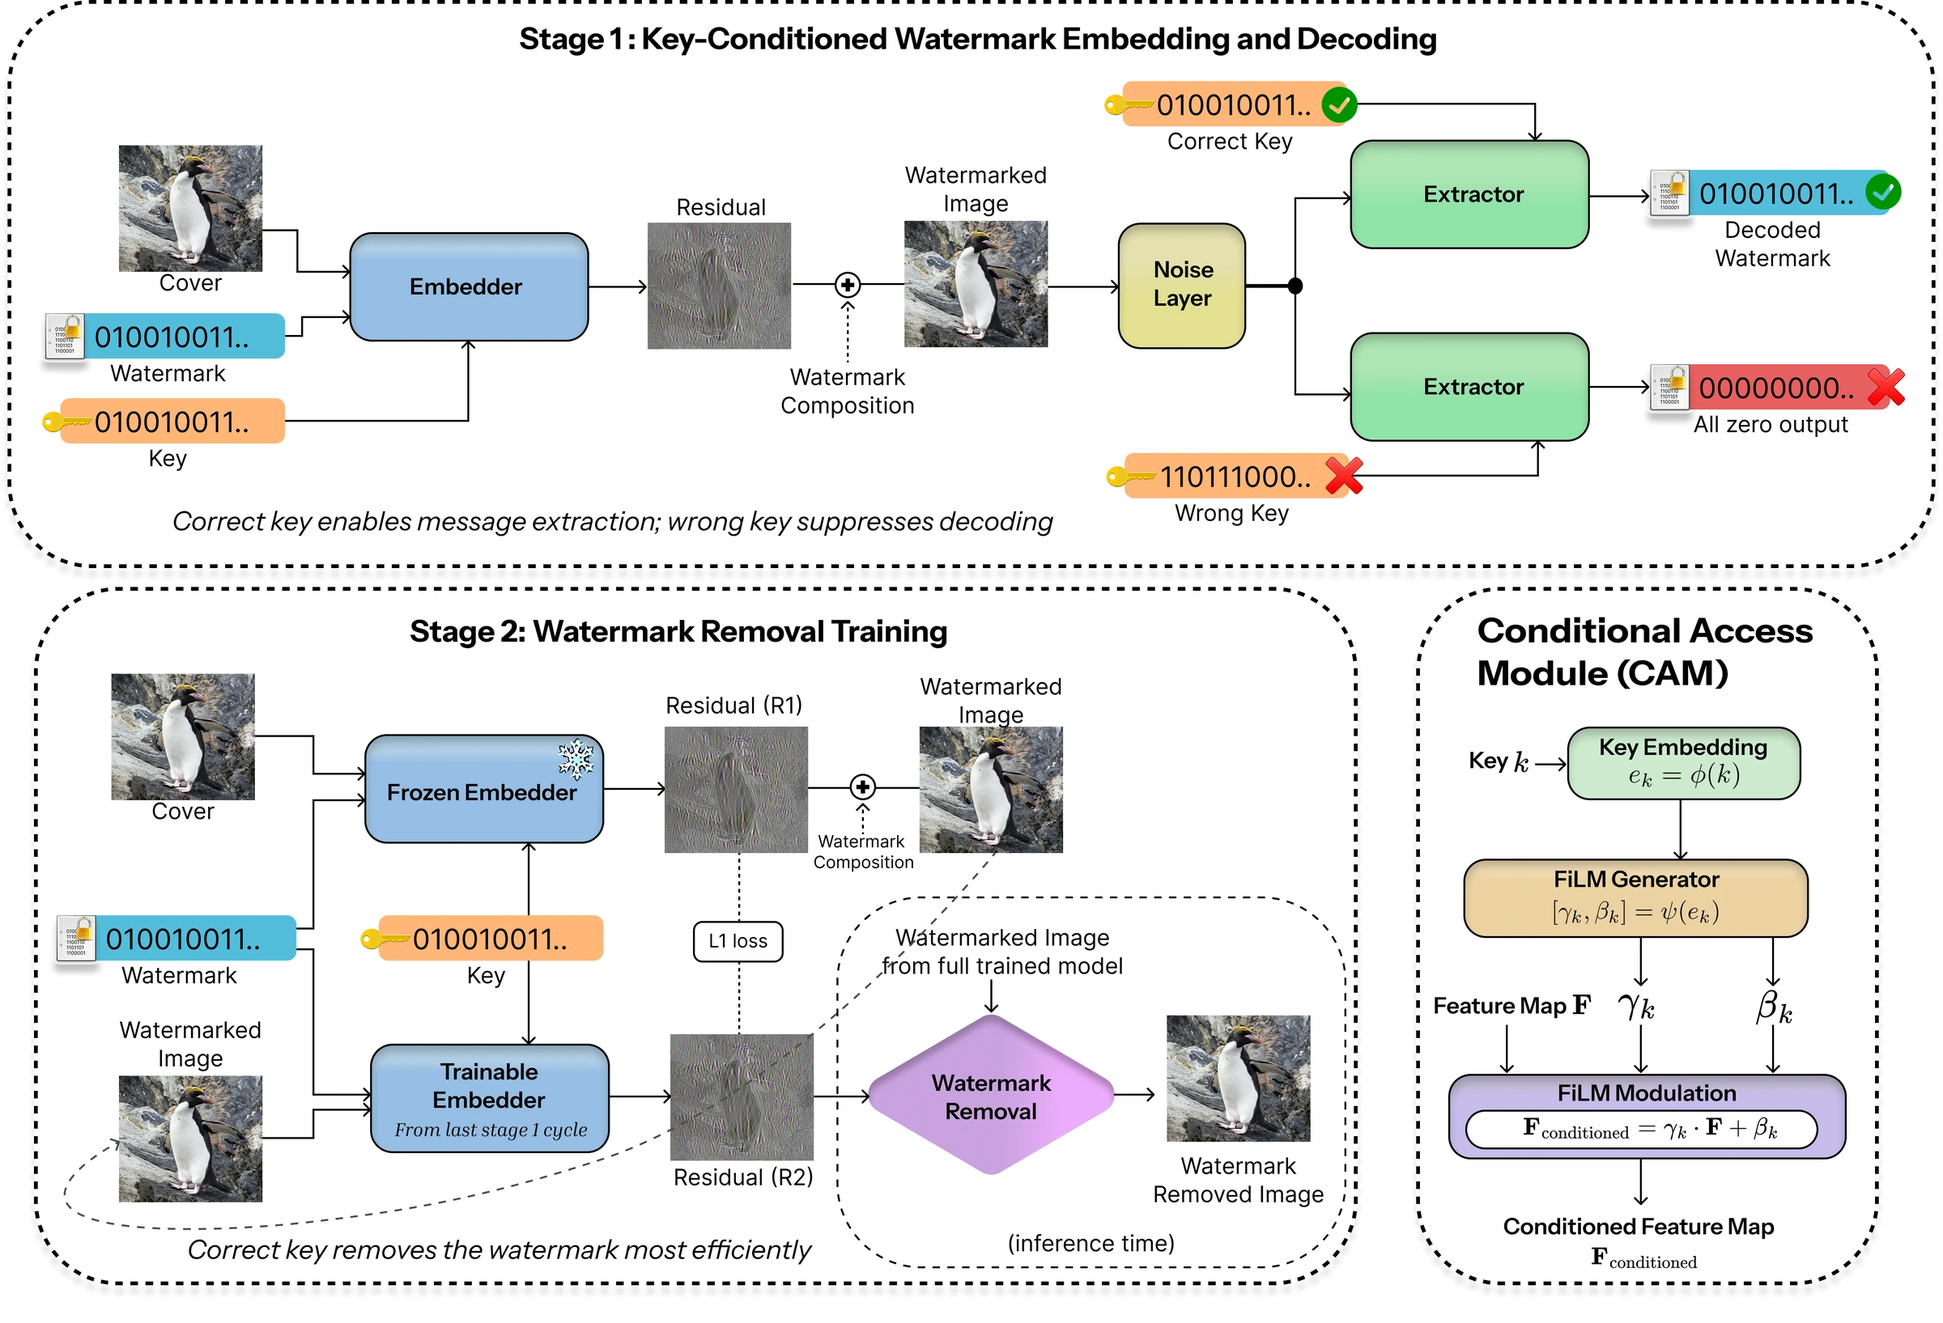
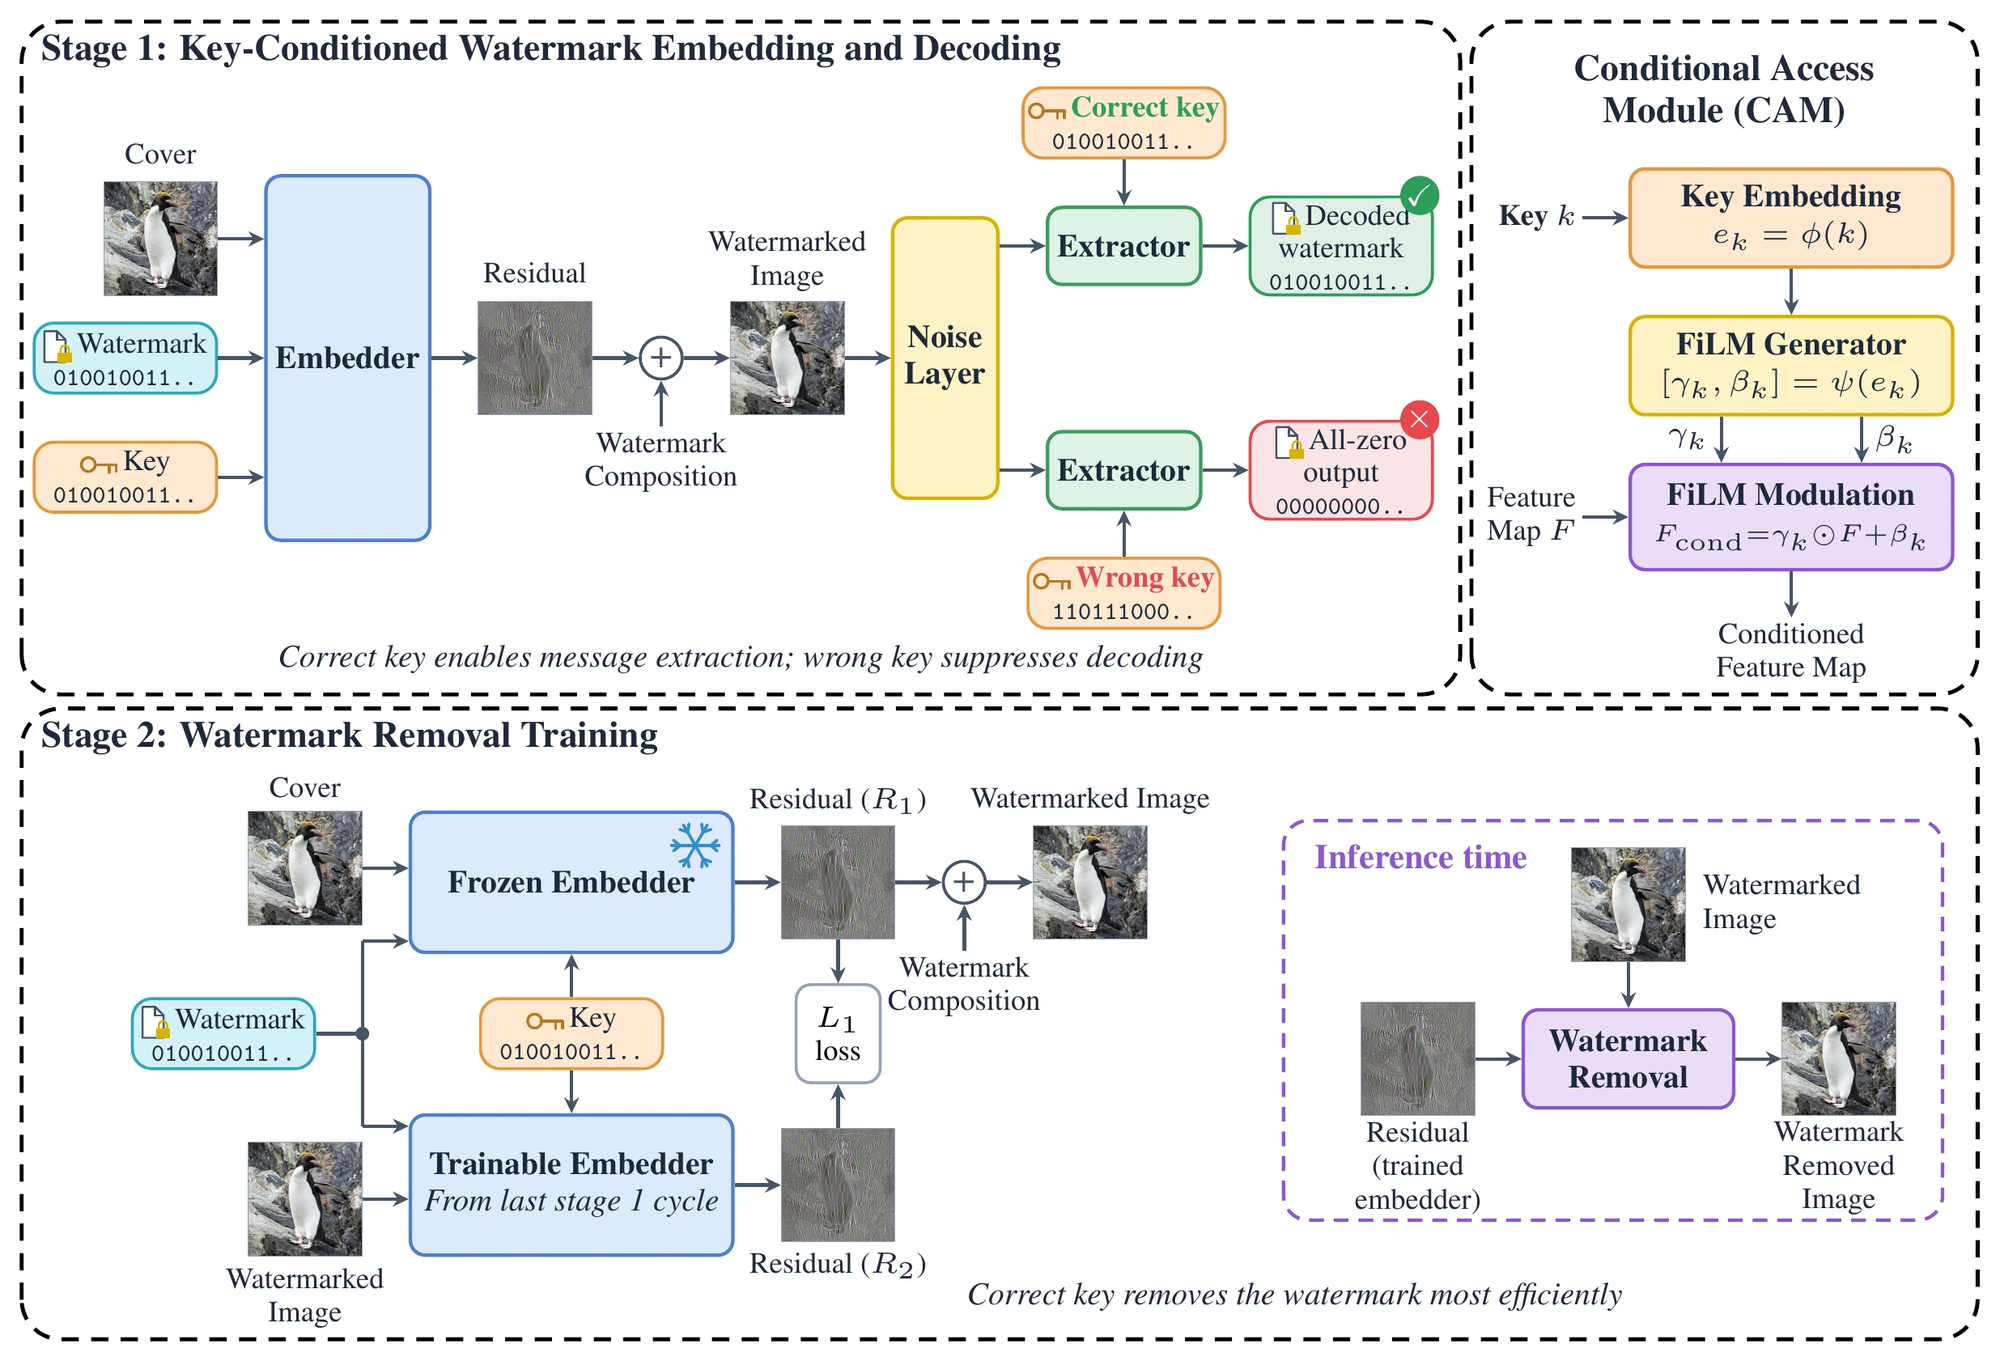
Add new method figure and minor changes

diff --git a/index.html b/index.html
@@ -36,8 +36,8 @@
 
             <div class="authors">
                 <span>Yash Kulthe<sup>1,2</sup></span>
-                <span>Vishal Asnani<sup>2</sup></span>
                 <span>Shruti Agarwal<sup>2</sup></span>
+                <span>Vishal Asnani<sup>2</sup></span>
                 <span>Andrew Gilbert<sup>1</sup></span>
                 <span>John Collomosse<sup>1,2</sup></span>
             </div>
@@ -204,8 +204,8 @@
                 <p class="lede">FiLM-CAM injects the key into the internal features of the embedder and extractor through a Conditional Access Module (CAM). Training proceeds in two stages: key-conditioned embedding and decoding, then key-conditioned removal.</p>
 
                 <figure class="figure reveal">
-                    <div class="card"><img src="images/method.webp" width="2400" height="1635" alt="Architecture of FiLM-CAM: Stage 1 key-conditioned embedding and decoding, Stage 2 watermark removal training, and the Conditional Access Module." loading="lazy" data-zoom></div>
-                    <figcaption><b>Architecture.</b> <b>Stage 1:</b> the embedder predicts a residual that is composed with the cover image. The extractor recovers the watermark only with the correct key and outputs an all-zero message otherwise. <b>Stage 2:</b> a trainable copy of the embedder learns to output the same residual when given the <em>watermarked</em> image, so it can be subtracted to remove the watermark. <b>CAM:</b> the key <span class="mono">k</span> is embedded as <span class="mono">e<sub>k</sub> = φ(k)</span>, projected to <span class="mono">(γ<sub>k</sub>, β<sub>k</sub>)</span>, and used to modulate intermediate feature maps.</figcaption>
+                    <div class="card"><img src="images/method.webp" width="2471" height="1682" alt="Architecture of FiLM-CAM: Stage 1 key-conditioned embedding and decoding, Stage 2 watermark removal training, and the Conditional Access Module." loading="lazy" data-zoom></div>
+                    <figcaption><b>Architecture of FiLM-CAM.</b> <b>Stage 1:</b> The Embedder generates watermark residuals, which are added to the cover image, to get a watermarked image. The Extractor recovers the watermark from the image if it receives the correct key and an all-zero bit message in case of an incorrect key. <b>Stage 2:</b> The Embedder network is trained to output residuals when given a watermarked image, such that it can be used to remove the watermark. <b>Conditional Access Module (CAM):</b> A binary key \(k\) is mapped to an embedding \(e_k=\phi(k)\) and transformed via \(\psi\) to produce feature-wise parameters \((\gamma_k,\beta_k)\). These condition the intermediate feature maps via FiLM modulation \(F_{\text{cond}}=\gamma_k \odot F + \beta_k\), enabling key-dependent watermark embedding, decoding, and removal.</figcaption>
                 </figure>
 
                 <div class="steps">

diff --git a/figures/method/figure1_tikz.tex b/figures/method/figure1_tikz.tex
@@ -1,0 +1,211 @@
+% ---------------------------------------------------------------
+% FiLM-CAM Figure 1 (TikZ), grid layout.
+% * Drawn at TRUE SIZE for a 5.5in NeurIPS text width (13.95cm wide): do NOT rescale.
+%   Printed font sizes: 7.5pt titles, 6.5pt modules, 6pt labels, 5.2pt bit strings.
+% * EVERY arrow uses the single style `arr` (same head, same 0.7pt line) and EVERY
+%   arrow is exactly \gn cm long (one parameter, default 0.36): blocks are placed with one fixed gap.
+%   To change ALL arrow lengths at once edit \gn below (needs ~0.33 to fit 13.95cm).
+% Preamble needs: \usepackage{tikz,graphicx,amsmath,amssymb,xcolor}
+%                 \usetikzlibrary{arrows.meta,calc,fit}
+% Images in images/fig1/: penguin.png (cover / watermarked / removed) and residual.png (residuals)
+% \blanktrue gives empty frames so you can add images later.
+% ---------------------------------------------------------------
+\newif\ifblank \blankfalse
+\newcommand{\figdir}{images/fig1}
+
+\definecolor{cBlue}{HTML}{DCE9FB}   \definecolor{cBlueD}{HTML}{4A7FD1}
+\definecolor{cGreen}{HTML}{DDF3E4}  \definecolor{cGreenD}{HTML}{3E9B5F}
+\definecolor{cOrange}{HTML}{FFE8D0} \definecolor{cOrangeD}{HTML}{E8963A}
+\definecolor{cTeal}{HTML}{D3F1F7}   \definecolor{cTealD}{HTML}{2FA6BF}
+\definecolor{cYellow}{HTML}{FFF3C4} \definecolor{cYellowD}{HTML}{D9B100}
+\definecolor{cPurple}{HTML}{EBDDFB} \definecolor{cPurpleD}{HTML}{8C55D6}
+\definecolor{cPanel}{HTML}{F8FAFC}  \definecolor{cPanelD}{HTML}{94A3B8}
+\definecolor{cRed}{HTML}{E5484D}    \definecolor{cOK}{HTML}{2E9E5B}
+\definecolor{cText}{HTML}{1E293B}   \definecolor{cArrow}{HTML}{475569}
+
+
+% ---- small hand-drawn icons (inline, ~0.2cm) ----
+\definecolor{cKey}{HTML}{B7791F}
+\newcommand{\keyic}{\tikz[baseline=-0.45ex, rounded corners=0pt]{\draw[line width=0.55pt,draw=cKey] (0,0) circle (0.05);
+  \draw[line width=0.55pt,draw=cKey,line cap=round] (0.05,0)--(0.2,0) (0.15,0)--(0.15,-0.055) (0.2,0)--(0.2,-0.05);}}
+\newcommand{\wmic}{\tikz[baseline=-0.5ex, rounded corners=0pt]{%
+  \path[draw=cArrow, fill=white, line width=0.4pt, line join=round] (0,-0.11)--(0,0.11)--(0.09,0.11)--(0.15,0.05)--(0.15,-0.11)--cycle;
+  \draw[line width=0.4pt, draw=cArrow] (0.09,0.11)--(0.09,0.05)--(0.15,0.05);
+  \draw[line width=0.4pt, draw=cYellowD] (0.115,-0.045)--(0.115,-0.02) arc (180:0:0.03) -- (0.175,-0.045);
+  \path[fill=cYellowD] (0.095,-0.115) rectangle (0.195,-0.045);}}
+
+% snowflake icon (frozen weights), drawn at point #1
+\definecolor{cSnow}{HTML}{2F8FD0}
+\newcommand{\snowic}[1]{\begin{scope}[shift={#1}, rounded corners=0pt, line width=0.6pt, draw=cSnow, line cap=round]
+  \foreach \a in {0,60,120}{\draw (\a:0.17)--(\a+180:0.17);}
+  \foreach \a in {0,60,...,300}{\draw (\a:0.11)--++(\a+40:0.06); \draw (\a:0.11)--++(\a-40:0.06);}
+\end{scope}}
+
+\newcommand{\figtitle}[1]{{\bfseries #1}}
+\newcommand{\figmod}[1]{{\bfseries #1}}
+\newcommand{\figlab}[1]{#1}
+\newcommand{\figbits}[1]{{\fontsize{5.2}{6}\selectfont\ttfamily\bfseries #1}}
+\newcommand{\figcap}[1]{{\itshape #1}}
+
+% \tile{name}{anchor}{position}{file}{size}
+\newcommand{\tile}[5]{%
+  \node[anchor=#2, inner sep=0pt, draw=cPanelD, line width=0.5pt] (#1) at #3 {%
+    \ifblank\rule{0pt}{#5}\rule{#5}{0pt}\else\includegraphics[width=#5,height=#5]{\figdir/#4}\fi};}
+% \pillt{name}{style}{anchor}{position}{label}{bits}
+\newcommand{\pillt}[6]{\node[pill, #2, anchor=#3] (#1) at #4 {\figlab{#5}\\\figbits{#6}};}
+
+\newcommand{\ts}{0.8cm}% image tile size (all images)
+\pgfmathsetmacro{\gn}{0.33}% <- the ONE arrow length / block gap (cm)
+\begin{tikzpicture}[
+  x=1cm, y=1cm, >={Stealth[length=3.2pt,width=3pt]}, font=\fontsize{6}{6.8}\selectfont,
+  % ---- the ONE arrow style (all arrows are \gn cm long) ----
+  arr/.style={->, line width=0.7pt, draw=cArrow},
+  panel/.style={draw=black, fill=white, line width=0.8pt, dash pattern=on 3.5pt off 2.5pt, rounded corners=8pt},
+  mod/.style={draw, line width=0.7pt, rounded corners=3pt, align=center, inner sep=2pt, text=cText, font=\fontsize{6.5}{7.4}\selectfont},
+  blue/.style={mod, fill=cBlue, draw=cBlueD}, green/.style={mod, fill=cGreen, draw=cGreenD},
+  orange/.style={mod, fill=cOrange, draw=cOrangeD}, yellow/.style={mod, fill=cYellow, draw=cYellowD},
+  purple/.style={mod, fill=cPurple, draw=cPurpleD},
+  pill/.style={draw, line width=0.6pt, rounded corners=4pt, minimum width=1.3cm, minimum height=0.5cm, inner sep=1pt, align=center, text=cText, font=\fontsize{6}{6.6}\selectfont},
+  tealp/.style={fill=cTeal, draw=cTealD}, orgp/.style={fill=cOrange, draw=cOrangeD},
+  grnp/.style={fill=cOK!15!white, draw=cOK}, redp/.style={fill=cRed!15!white, draw=cRed},
+  plus/.style={circle, draw=cArrow, fill=white, line width=0.6pt, inner sep=0pt, minimum size=0.3cm, font=\fontsize{8}{8}\selectfont, text=cArrow},
+  lab/.style={align=center, text=cText, inner sep=1pt, font=\fontsize{6}{6.8}\selectfont},
+  ttl/.style={align=center, text=cText, inner sep=1pt, font=\fontsize{7.5}{8.5}\selectfont},
+  capst/.style={align=center, text=cText, inner sep=1pt, font=\fontsize{6.5}{7.5}\selectfont},
+  badge/.style={circle, text=white, inner sep=0pt, minimum size=0.28cm, font=\fontsize{6}{6}\selectfont},
+  ]
+
+%=========================== STAGE 1 ===========================
+\path[panel] (0,4.6) rectangle (10.26,9.4);
+\node[ttl, anchor=north west] at (0.1,9.35) {\figtitle{Stage 1: Key-Conditioned Watermark Embedding and Decoding}};
+
+% input column (right edges aligned at x=1.4); main row at y=7.0
+\tile{cov1}{east}{(1.4,7.85)}{penguin.png}{\ts}
+\node[lab] at ($(cov1.north)+(0,0.2)$) {\figlab{Cover}};
+\pillt{wm1}{tealp}{east}{(1.4,7.0)}{\wmic\,Watermark}{010010011..}
+\pillt{key1}{orgp}{east}{(1.4,6.15)}{\keyic\,Key}{010010011..}
+
+\node[blue, anchor=west, minimum width=1.15cm, minimum height=2.6cm] (emb) at ($(1.4,7.0)+(\gn,0)$) {\figmod{Embedder}};
+\draw[arr] (cov1.east)--(emb.west |- cov1.east);
+\draw[arr] (wm1.east)--(emb.west |- wm1.east);
+\draw[arr] (key1.east)--(emb.west |- key1.east);
+
+\tile{res1}{west}{($(emb.east)+(\gn,0)$)}{residual.png}{\ts}
+\node[lab] at ($(res1.north)+(0,0.2)$) {\figlab{Residual}};
+\draw[arr] (emb.east)--(res1.west);
+\node[plus, anchor=west] (pl1) at ($(res1.east)+(\gn,0)$) {+};
+\draw[arr] (res1.east)--(pl1.west);
+% label with an arrow up to the + (same arrow style)
+\node[lab, anchor=north] (cl1) at ($(pl1.south)+(0,-\gn)$) {\figlab{Watermark}\\\figlab{Composition}};
+\draw[arr] (cl1.north)--(pl1.south);
+\tile{wmd1}{west}{($(pl1.east)+(\gn,0)$)}{penguin.png}{\ts}
+\node[lab] at ($(wmd1.north)+(0,0.28)$) {\figlab{Watermarked}\\\figlab{Image}};
+\draw[arr] (pl1.east)--(wmd1.west);
+
+\node[yellow, anchor=west, minimum width=0.75cm, minimum height=2.0cm] (noise) at ($(wmd1.east)+(\gn,0)$) {\figmod{Noise}\\\figmod{Layer}};
+\draw[arr] (wmd1.east)--(noise.west);
+
+\node[green, anchor=west, minimum width=1.05cm, minimum height=0.55cm] (ex1) at ($(noise.east)+(\gn,0.8)$) {\figmod{Extractor}};
+\node[green, anchor=west, minimum width=1.05cm, minimum height=0.55cm] (ex2) at ($(noise.east)+(\gn,-0.8)$) {\figmod{Extractor}};
+\draw[arr] (noise.east |- ex1.west)--(ex1.west);
+\draw[arr] (noise.east |- ex2.west)--(ex2.west);
+
+\pillt{ck}{orgp}{south}{($(ex1.north)+(0,\gn)$)}{\keyic\,\textcolor{cOK}{\bfseries Correct key}}{010010011..}
+\draw[arr] (ck.south)--(ex1.north);
+\pillt{wk}{orgp}{north}{($(ex2.south)+(0,-\gn)$)}{\keyic\,\textcolor{cRed}{\bfseries Wrong key}}{110111000..}
+\draw[arr] (wk.north)--(ex2.south);
+
+\pillt{out1}{grnp}{west}{($(ex1.east)+(\gn,0)$)}{\wmic\,Decoded\\watermark}{010010011..}
+\draw[arr] (ex1.east)--(out1.west);
+\node[badge, fill=cOK] at ($(out1.north east)+(-0.1,0)$) {$\checkmark$};
+\pillt{out2}{redp}{west}{($(ex2.east)+(\gn,0)$)}{\wmic\,All-zero\\output}{00000000..}
+\draw[arr] (ex2.east)--(out2.west);
+\node[badge, fill=cRed] at ($(out2.north east)+(-0.1,0)$) {$\times$};
+
+\node[capst] at (5.13,4.85) {\figcap{Correct key enables message extraction; wrong key suppresses decoding}};
+
+%=========================== CAM ===========================
+\path[panel] (10.34,4.6) rectangle (13.95,9.4);
+\node[ttl] at (12.145,8.9) {\figtitle{Conditional Access}\\\figtitle{Module (CAM)}};
+
+\node[orange, anchor=west, minimum width=2.3cm, minimum height=0.7cm] (ke) at (11.46,8.0) {\figmod{Key Embedding}\\\figlab{$e_k=\phi(k)$}};
+\node[lab, anchor=east] (kk) at ($(ke.west)+(-\gn,0)$) {\figmod{Key $k$}};
+\draw[arr] (kk.east)--(ke.west);
+\node[yellow, anchor=north, minimum width=2.3cm, minimum height=0.7cm] (fg) at ($(ke.south)+(0,-\gn)$) {\figmod{FiLM Generator}\\\figlab{$[\gamma_k,\beta_k]=\psi(e_k)$}};
+\draw[arr] (ke.south)--(fg.north);
+\node[purple, anchor=north, minimum width=2.3cm, minimum height=0.75cm] (fm) at ($(fg.south)+(0,-\gn)$) {\figmod{FiLM Modulation}\\{\fontsize{5.3}{6.2}\selectfont $F_{\mathrm{cond}}{=}\gamma_k{\odot}F{+}\beta_k$}};
+\draw[arr] ($(fg.south)+(-0.5,0)$)--($(fm.north)+(-0.5,0)$);
+\draw[arr] ($(fg.south)+(0.5,0)$)--($(fm.north)+(0.5,0)$);
+\node[lab, anchor=east] at ($(fg.south)+(-0.55,-0.5*\gn)$) {\figmod{$\gamma_k$}};
+\node[lab, anchor=west] at ($(fg.south)+(0.55,-0.5*\gn)$) {\figmod{$\beta_k$}};
+\node[lab, anchor=east] (fmap) at ($(fm.west)+(-\gn,0)$) {\figlab{Feature}\\\figlab{Map $F$}};
+\draw[arr] (fmap.east)--(fm.west);
+\node[lab, anchor=north] (co) at ($(fm.south)+(0,-\gn)$) {\figlab{Conditioned}\\\figlab{Feature Map}};
+\draw[arr] (fm.south)--(co.north);
+
+%=========================== STAGE 2 ===========================
+\path[panel] (0,0) rectangle (13.95,4.5);
+\node[ttl, anchor=north west] at (0.1,4.45) {\figtitle{Stage 2: Watermark Removal Training}};
+
+\begin{scope}[shift={(0.6,0)}]% main Stage 2 diagram nudged right
+% top row y=3.26 (T), bottom row y=1.1 (B): T-B = emb height + 2*gn + pill height
+\pgfmathsetmacro{\busx}{1.5+\gn}
+\tile{cov2}{east}{(\busx,3.36)}{penguin.png}{\ts}
+\node[lab] at ($(cov2.north)+(0,0.17)$) {\figlab{Cover}};
+\node[blue, anchor=west, minimum width=2.3cm, minimum height=1.0cm] (fe) at ($(\busx,3.26)+(\gn,0)$) {\figmod{Frozen Embedder}};
+\snowic{($(fe.north east)+(-0.28,-0.25)$)}
+\draw[arr] (cov2.east)--(fe.west |- cov2.east);
+\tile{r1}{west}{($(fe.east)+(\gn,0)$)}{residual.png}{\ts}
+\node[lab] at ($(r1.north)+(0,0.17)$) {\figlab{Residual ($R_1$)}};
+\draw[arr] (fe.east)--(r1.west |- fe.east);
+\node[plus, anchor=west] (pl2) at ($(r1.east)+(\gn,0)$) {+};
+\draw[arr] (r1.east)--(pl2.west);
+\node[lab, anchor=north] (cl2) at ($(pl2.south)+(0,-\gn)$) {\figlab{Watermark}\\\figlab{Composition}};
+\draw[arr] (cl2.north)--(pl2.south);
+\tile{wmd2}{west}{($(pl2.east)+(\gn,0)$)}{penguin.png}{\ts}
+\node[lab] at ($(wmd2.north)+(0,0.17)$) {\figlab{Watermarked Image}};
+\draw[arr] (pl2.east)--(wmd2.west);
+
+\tile{wi2}{east}{(\busx,1.0)}{penguin.png}{\ts}
+\node[lab] at ($(wi2.south)+(0,-0.3)$) {\figlab{Watermarked}\\\figlab{Image}};
+\node[blue, anchor=west, minimum width=2.3cm, minimum height=1.0cm] (te) at ($(\busx,1.1)+(\gn,0)$) {\figmod{Trainable Embedder}\\{\itshape From last stage 1 cycle}};
+\draw[arr] (wi2.east)--(te.west |- wi2.east);
+\tile{r2}{west}{($(te.east)+(\gn,0)$)}{residual.png}{\ts}
+\node[lab] at ($(r2.south)+(0,-0.17)$) {\figlab{Residual ($R_2$)}};
+\draw[arr] (te.east)--(r2.west |- te.east);
+
+% watermark: one stem from the pill splits into two arrows (to BOTH embedders)
+\pillt{wm2}{tealp}{east}{(1.5,2.18)}{\wmic\,Watermark}{010010011..}
+\draw[line width=0.7pt, draw=cArrow] (wm2.east)--(\busx,2.18);
+\draw[line width=0.7pt, draw=cArrow] (\busx,1.52)--(\busx,2.84);
+\fill[cArrow] (\busx,2.18) circle (1.4pt);
+\draw[arr] (\busx,2.84)--(fe.west |- 0,2.84);
+\draw[arr] (\busx,1.52)--(te.west |- 0,1.52);
+% key: between the embedders, arrows to BOTH
+\pillt{k2}{orgp}{center}{($(fe.south)!0.5!(te.north)$)}{\keyic\,Key}{010010011..}
+\draw[arr] (k2.north)--(k2.north |- fe.south);
+\draw[arr] (k2.south)--(k2.south |- te.north);
+
+% L1 loss between residuals
+\node[draw=cPanelD, fill=white, rounded corners=3pt, line width=0.6pt, minimum width=0.6cm, minimum height=0.7cm, align=center] (l1) at ($(r1.south)!0.5!(r2.north)$) {\figlab{$L_1$}\\\figlab{loss}};
+\draw[arr] (r1.south)--(r1.south |- l1.north);
+\draw[arr] (r2.north)--(r2.north |- l1.south);
+
+\end{scope}
+
+% inference: removal needs BOTH the watermarked image and the residual of the trained embedder
+\path[draw=cPurpleD, dash pattern=on 3pt off 2pt, line width=0.7pt, rounded corners=5pt, fill=white] (9.0,0.85) rectangle (13.7,3.7);
+\node[anchor=north west, text=cPurpleD, font=\fontsize{7}{8}\selectfont\bfseries] at (9.1,3.65) {Inference time};
+\tile{ri3}{west}{(9.55,2.0)}{residual.png}{\ts}
+\node[lab] at ($(ri3.south)+(0,-0.37)$) {\figlab{Residual}\\\figlab{(trained}\\\figlab{embedder)}};
+\node[purple, anchor=west, minimum width=1.5cm, minimum height=0.7cm] (rm) at ($(ri3.east)+(\gn,0)$) {\figmod{Watermark}\\\figmod{Removal}};
+\draw[arr] (ri3.east)--(rm.west |- ri3.east);
+\tile{wi3}{south}{($(rm.north)+(0,\gn)$)}{penguin.png}{\ts}
+\node[lab, anchor=west, align=left] at ($(wi3.east)+(0.08,0)$) {\figlab{Watermarked}\\\figlab{Image}};
+\draw[arr] (wi3.south)--(rm.north);
+\tile{wo}{west}{($(rm.east)+(\gn,0)$)}{penguin.png}{\ts}
+\node[lab] at ($(wo.south)+(0,-0.37)$) {\figlab{Watermark}\\\figlab{Removed}\\\figlab{Image}};
+\draw[arr] (rm.east)--(wo.west);
+
+\node[capst, anchor=west] at (6.7,0.3) {\figcap{Correct key removes the watermark most efficiently}};
+\end{tikzpicture}

diff --git a/figures/method/method.tex b/figures/method/method.tex
@@ -1,0 +1,20 @@
+% Standalone build of the FiLM-CAM architecture figure for the project pages.
+% figure1_tikz.tex is the paper's figure, unchanged; text uses Times as in the NeurIPS style.
+%
+% Rebuild ../../images/method.webp (run from this folder):
+%   pdflatex method.tex
+%   pdftoppm -r 440 -png -singlefile method.pdf method
+%   python -c "from PIL import Image; Image.open('method.png').convert('RGB').save('../../images/method.webp', quality=92)"
+% Then copy images/method.webp to assets/publication/filmcam/method.webp in the
+% yash-research.github.io repo, and update the figure's width/height in ../../index.html.
+% varwidth: typeset in vertical mode, so the spaces after the definitions in figure1_tikz.tex
+% don't add blank width before the picture
+\documentclass[varwidth=50cm,border=4pt]{standalone}
+\usepackage[T1]{fontenc}
+\renewcommand{\rmdefault}{ptm}
+\renewcommand{\sfdefault}{phv}
+\usepackage{tikz,graphicx,amsmath,amssymb,xcolor}
+\usetikzlibrary{arrows.meta,calc,fit}
+\begin{document}
+\input{figure1_tikz}
+\end{document}

diff --git a/README.md b/README.md
@@ -1,7 +1,9 @@
 # FiLM-CAM: Keyed Feature Modulation for Conditional-Access Watermarking
 
-Project page for the NeurIPS 2026 paper by Yash Kulthe, Vishal Asnani, Shruti Agarwal, Andrew Gilbert and John Collomosse.
+Project page for the NeurIPS 2026 paper by Yash Kulthe, Shruti Agarwal, Vishal Asnani, Andrew Gilbert and John Collomosse.
 
 Live page: https://yash-research.github.io/filmcam/
 
 Static site (HTML/CSS/JS, no build step), served with GitHub Pages from the `main` branch.
+
+The architecture figure (`images/method.webp`) is rendered from the paper's TikZ source in `figures/method/`. The build steps are at the top of `figures/method/method.tex`.
